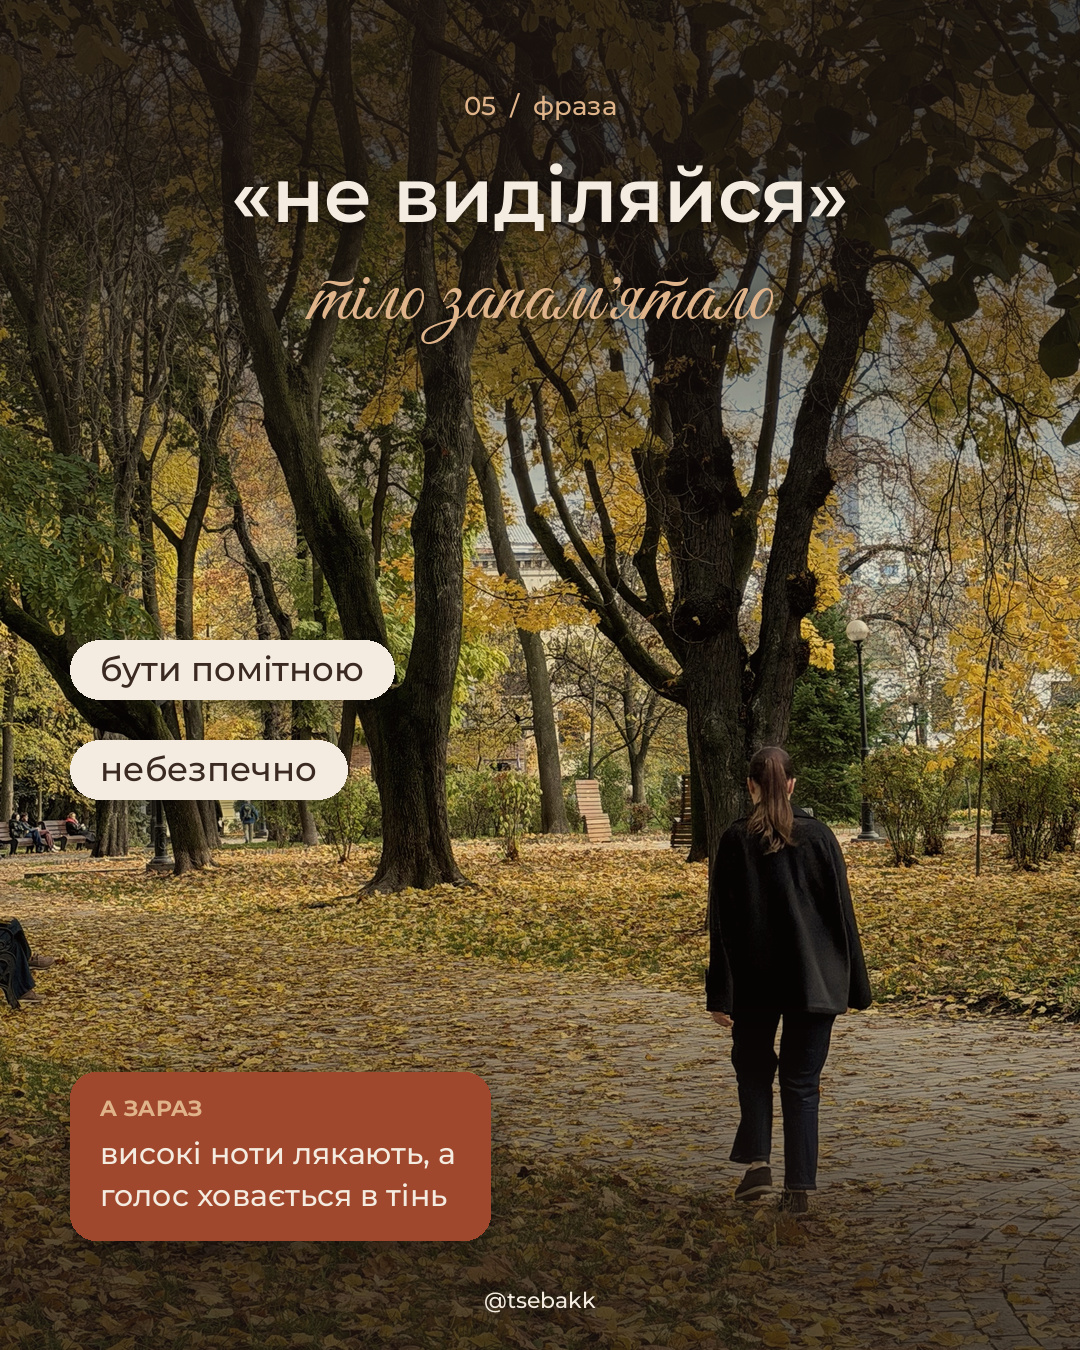
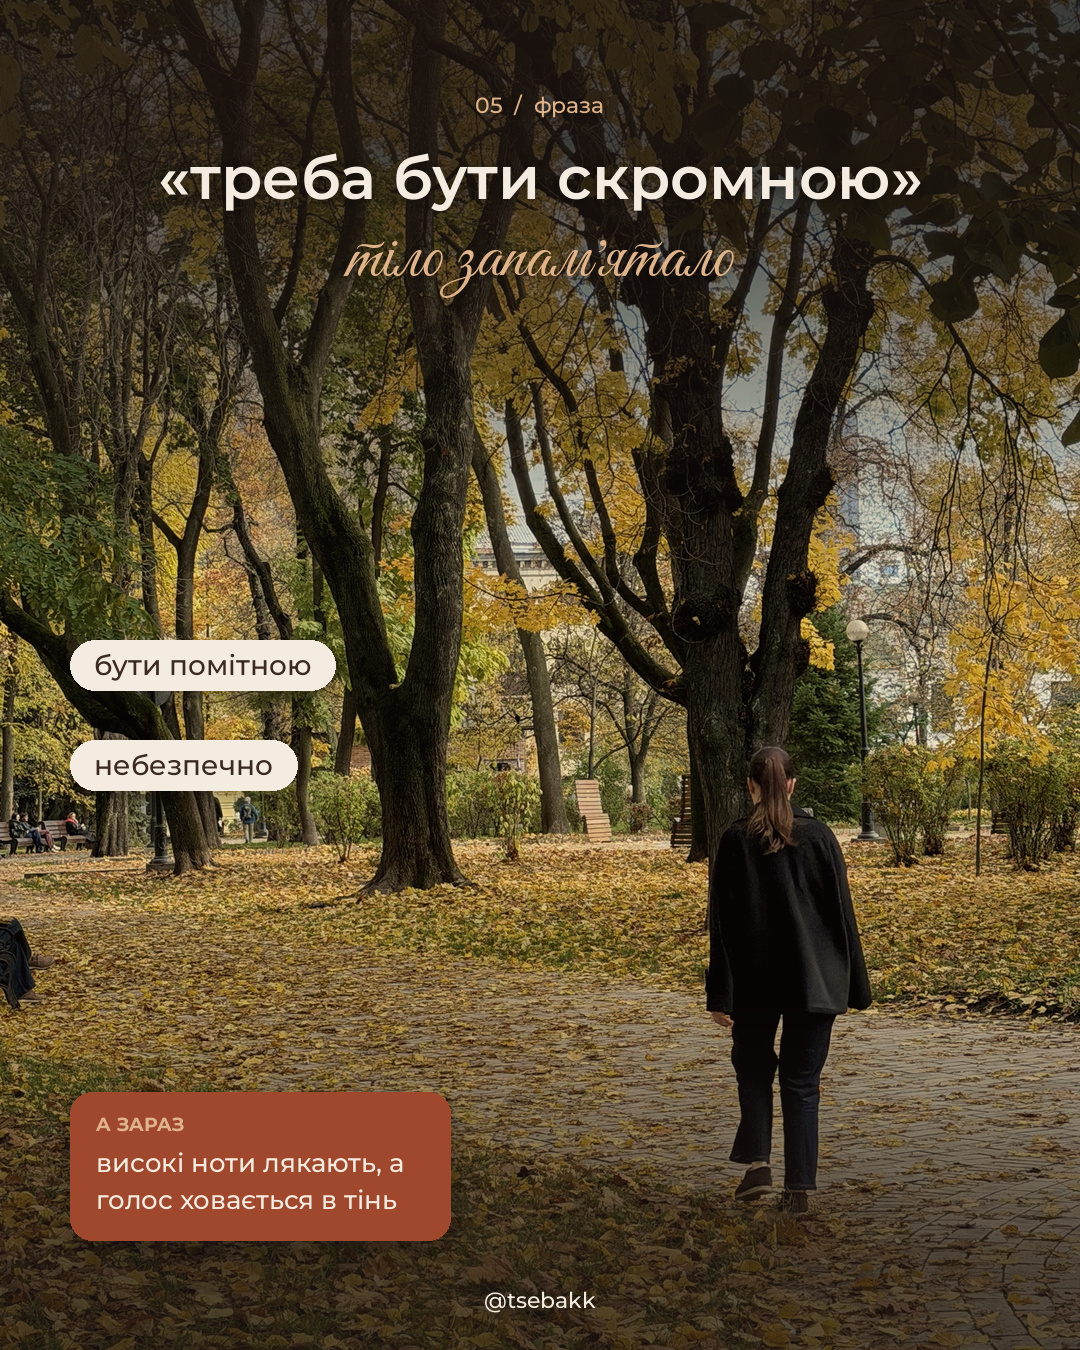
Стиль v2: менший текст і нові формулювання фраз у прикладі
Claude-Session: https://claude.ai/code/session_014Frww6DmATMNYLbdYsHMaJ

diff --git a/carousel_kit.py b/carousel_kit.py
@@ -130,11 +130,11 @@ def drop_shadow(c, box, radius, alpha=100, blur=12):
     c.alpha_composite(sh.filter(ImageFilter.GaussianBlur(blur)))
 
 
-def pill(c, text, side, y, size=34, bg=MILK, fg=CHOC, font_var="Medium"):
+def pill(c, text, side, y, size=28, bg=MILK, fg=CHOC, font_var="Medium"):
     # молочна «пігулка»; side: "l" — від лівого поля, "r" — від правого, "c" — по центру
     f = mont(size, font_var)
     d = ImageDraw.Draw(c)
-    padx, h = 30, int(size * 1.75)
+    padx, h = 24, int(size * 1.8)
     w = d.textlength(text, font=f) + 2 * padx
     x = {"l": 70, "r": W - 70 - w, "c": (W - w) / 2}[side]
     drop_shadow(c, (x, y, x + w, y + h), h // 2, alpha=90, blur=10)
@@ -144,22 +144,22 @@ def pill(c, text, side, y, size=34, bg=MILK, fg=CHOC, font_var="Medium"):
     return y + h
 
 
-def block(c, label, text, side="r", y=None, width=420):
+def block(c, label, text, side="r", y=None, width=380):
     # теракотова плашка: дрібна мітка ВЕЛИКИМИ + 2–3 рядки
-    f = mont(30, "Medium")
-    lines = wrap(text, f, width - 60)
-    h = (62 if label else 24) + len(lines) * 42 + 22
+    f = mont(26, "Medium")
+    lines = wrap(text, f, width - 52)
+    h = (54 if label else 22) + len(lines) * 37 + 20
     y = H - 110 - h if y is None else y
     x = {"l": 70, "r": W - 70 - width, "c": (W - width) / 2}[side]
-    drop_shadow(c, (x, y, x + width, y + h), 26, alpha=110)
+    drop_shadow(c, (x, y, x + width, y + h), 22, alpha=110)
     d = ImageDraw.Draw(c)
-    d.rounded_rectangle((x, y, x + width, y + h), radius=26, fill=TERRA)
-    ty = y + 22
+    d.rounded_rectangle((x, y, x + width, y + h), radius=22, fill=TERRA)
+    ty = y + 20
     if label:
-        d.text((x + 30, ty), label.upper(), font=mont(22, "Bold"), fill=CARAMEL_L)
-        ty += 40
+        d.text((x + 26, ty), label.upper(), font=mont(19, "Bold"), fill=CARAMEL_L)
+        ty += 34
     for i, line in enumerate(lines):
-        d.text((x + 30, ty + i * 42), line, font=f, fill=MILK)
+        d.text((x + 26, ty + i * 37), line, font=f, fill=MILK)
 
 
 def handle(c):
@@ -169,12 +169,12 @@ def handle(c):
 def header(c, s, y=105):
     # «01 / фраза» + заголовок + рукописний рядок; повертає низ текстової зони
     if s.get("number"):
-        soft_text(c, (W / 2, y), f"{s['number']}  /  {s.get('label', '')}".strip(" /"), mont(26, "Medium"), CARAMEL_L)
-        y += 90
-    size = s.get("title_size", 76)
+        soft_text(c, (W / 2, y), f"{s['number']}  /  {s.get('label', '')}".strip(" /"), mont(22, "Medium"), CARAMEL_L)
+        y += 72
+    size = s.get("title_size", 60)
     y = centered(c, y, s["title"], mont(size, "SemiBold"), MILK, int(size * 1.18))
     if s.get("script"):
-        ss = s.get("script_size", 84)
+        ss = s.get("script_size", 70)
         y = centered(c, y + int(ss * 0.18), typo(s["script"]), script(ss), CARAMEL_L, int(ss * 1.05))
     return y
 
@@ -188,13 +188,13 @@ def s_cover(s, base):
     lines = s["title"]
     y = s.get("title_y", 890)
     for line in lines:
-        soft_text(c, (W / 2, y), line, mont(s.get("title_size", 62), "SemiBold"), MILK)
-        y += 75
+        soft_text(c, (W / 2, y), line, mont(s.get("title_size", 54), "SemiBold"), MILK)
+        y += 66
     if s.get("script"):
-        soft_text(c, (W / 2, y + 45), typo(s["script"]), script(s.get("script_size", 170)), CARAMEL_L)
-        y += 160
+        soft_text(c, (W / 2, y + 38), typo(s["script"]), script(s.get("script_size", 140)), CARAMEL_L)
+        y += 135
     if s.get("subtitle"):
-        soft_text(c, (W / 2, y + 30), s["subtitle"], mont(30, "Light"), MILK)
+        soft_text(c, (W / 2, y + 30), s["subtitle"], mont(26, "Light"), MILK)
     handle(c)
     return c
 
@@ -210,11 +210,11 @@ def s_point(s, base):
         p = {"text": p} if isinstance(p, str) else p
         side = p.get("side", "l")
         y = p.get("y", ys.get(side, 700))
-        pill(c, p["text"], side, y, p.get("size", 34))
-        ys[side] = y + 150
+        pill(c, p["text"], side, y, p.get("size", 28))
+        ys[side] = y + 120
     if s.get("block"):
         b = s["block"]
-        block(c, b.get("label", ""), b["text"], b.get("side", "r"), b.get("y"), b.get("width", 420))
+        block(c, b.get("label", ""), b["text"], b.get("side", "r"), b.get("y"), b.get("width", 380))
     handle(c)
     return c
 
@@ -224,19 +224,19 @@ def s_text(s, base):
     c = background(s, base, darken=s.get("darken", 150))
     y = s.get("top", 300 if s.get("steps") else 470)
     if s.get("kicker"):
-        soft_text(c, (W / 2, y - 80), s["kicker"].upper(), mont(24, "Bold"), CARAMEL_L)
-    size = s.get("title_size", 70)
+        soft_text(c, (W / 2, y - 80), s["kicker"].upper(), mont(21, "Bold"), CARAMEL_L)
+    size = s.get("title_size", 58)
     y = centered(c, y, s["title"], mont(size, "SemiBold"), MILK, int(size * 1.2))
     if s.get("script"):
-        ss = s.get("script_size", 90)
+        ss = s.get("script_size", 74)
         y = centered(c, y + 10, typo(s["script"]), script(ss), CARAMEL_L, int(ss * 1.05))
     if s.get("body"):
-        y = centered(c, y + 30, s["body"], mont(32, "Light"), MILK, 48, 860)
+        y = centered(c, y + 30, s["body"], mont(28, "Light"), MILK, 42, 820)
     if s.get("steps"):
         y += 40
         for k, st in enumerate(s["steps"], 1):
-            for j, line in enumerate(wrap(f"{k}. {st}", mont(30, "Medium"), 820)):
-                y = pill(c, line, "c", y, 30) + 18
+            for j, line in enumerate(wrap(f"{k}. {st}", mont(26, "Medium"), 820)):
+                y = pill(c, line, "c", y, 26) + 16
     handle(c)
     return c
 
@@ -246,14 +246,14 @@ def s_cta(s, base):
     c = background(s, base)
     shade(c, s.get("shade_top", 560), H, 245)
     y = s.get("title_y", 820)
-    size = s.get("title_size", 64)
+    size = s.get("title_size", 54)
     y = centered(c, y, s["title"], mont(size, "SemiBold"), MILK, int(size * 1.18))
     if s.get("script"):
-        y = centered(c, y + 10, typo(s["script"]), script(80), CARAMEL_L, 84)
+        y = centered(c, y + 10, typo(s["script"]), script(66), CARAMEL_L, 70)
     if s.get("body"):
-        y = centered(c, y + 20, s["body"], mont(30, "Light"), MILK, 44, 820)
+        y = centered(c, y + 20, s["body"], mont(26, "Light"), MILK, 38, 800)
     if s.get("keyword"):
-        pill(c, s["keyword"], "c", y + 10, 40, bg=MILK, fg=TERRA, font_var="Black")
+        pill(c, s["keyword"], "c", y + 10, 34, bg=MILK, fg=TERRA, font_var="Black")
     handle(c)
     return c
 

diff --git a/ІНСТРУКЦІЯ.md b/ІНСТРУКЦІЯ.md
@@ -39,7 +39,7 @@
 - **без рожевого й неону**, без холодних синіх, без чистого білого фону.
 
 **Шрифти:**
-- Montserrat SemiBold — заголовки й фрази. **Помірного розміру, не гігантські** (фраза ~76 px, довга ~64 px, обкладинка ~62 px).
+- Montserrat SemiBold — заголовки й фрази. **Невеликі, не кричущі**: фраза 60 px, обкладинка 54 px, пігулки 28 px, плашка 26 px. Таня не любить великого тексту — краще менше, ніж більше.
 - Great Vibes — рукописний акцент (одне слово чи коротка фраза карамеллю: «твій голос», «тіло запам'ятало»). Один рукописний рядок на слайд.
 - Montserrat Light — підзаголовки й пояснення; Medium — пігулки; Bold — дрібні мітки ВЕЛИКИМИ; Black — кодове слово.
 - Відстань між заголовком і рукописним рядком — невелика, вони читаються як одне ціле.
@@ -103,11 +103,11 @@
 
 Фото — у папці `фото/` поруч зі spec.json. Спільні поля: `type`, `photo`, `focus` [x, y] від 0 до 1 — яку частину фото тримати в кадрі.
 
-- `cover`: `title` — список рядків; `script` — рукописний акцент; `subtitle`; необов'язково `title_size` (62), `title_y` (890), `script_size` (170), `shade_top` (640).
-- `point`: `number` («01»), `label` («фраза»), `title`, `script`; `pills` — список `{"text", "side": "l"|"r", "y"}` (side — з якого боку, y — висота верхнього краю, 0…1350); `block` — `{"label", "text", "side": "l"|"r"}`; необов'язково `title_size` (76), `script_size` (84).
+- `cover`: `title` — список рядків; `script` — рукописний акцент; `subtitle`; необов'язково `title_size` (54), `title_y` (890), `script_size` (140), `shade_top` (640).
+- `point`: `number` («01»), `label` («фраза»), `title`, `script`; `pills` — список `{"text", "side": "l"|"r", "y"}` (side — з якого боку, y — висота верхнього краю, 0…1350); `block` — `{"label", "text", "side": "l"|"r"}`; необов'язково `title_size` (60), `script_size` (70).
 - `text`: `title`, `script`, `body` або `steps` (список коротких кроків), `kicker` (дрібна мітка зверху), `darken` (0–255, наскільки затемнити фото, типово 150), без `photo` — шоколадний фон.
 - `cta`: `title`, `script`, `body`, `keyword`.
-- Перенос рядка всередині тексту — `\n`.
+- Перенос рядка всередині тексту — `\n`. Щоб два слова не розривались (наприклад, «у машині»), став між ними нерозривний пробіл.
 
 Мінімальний приклад слайда-пункту:
 ```json
